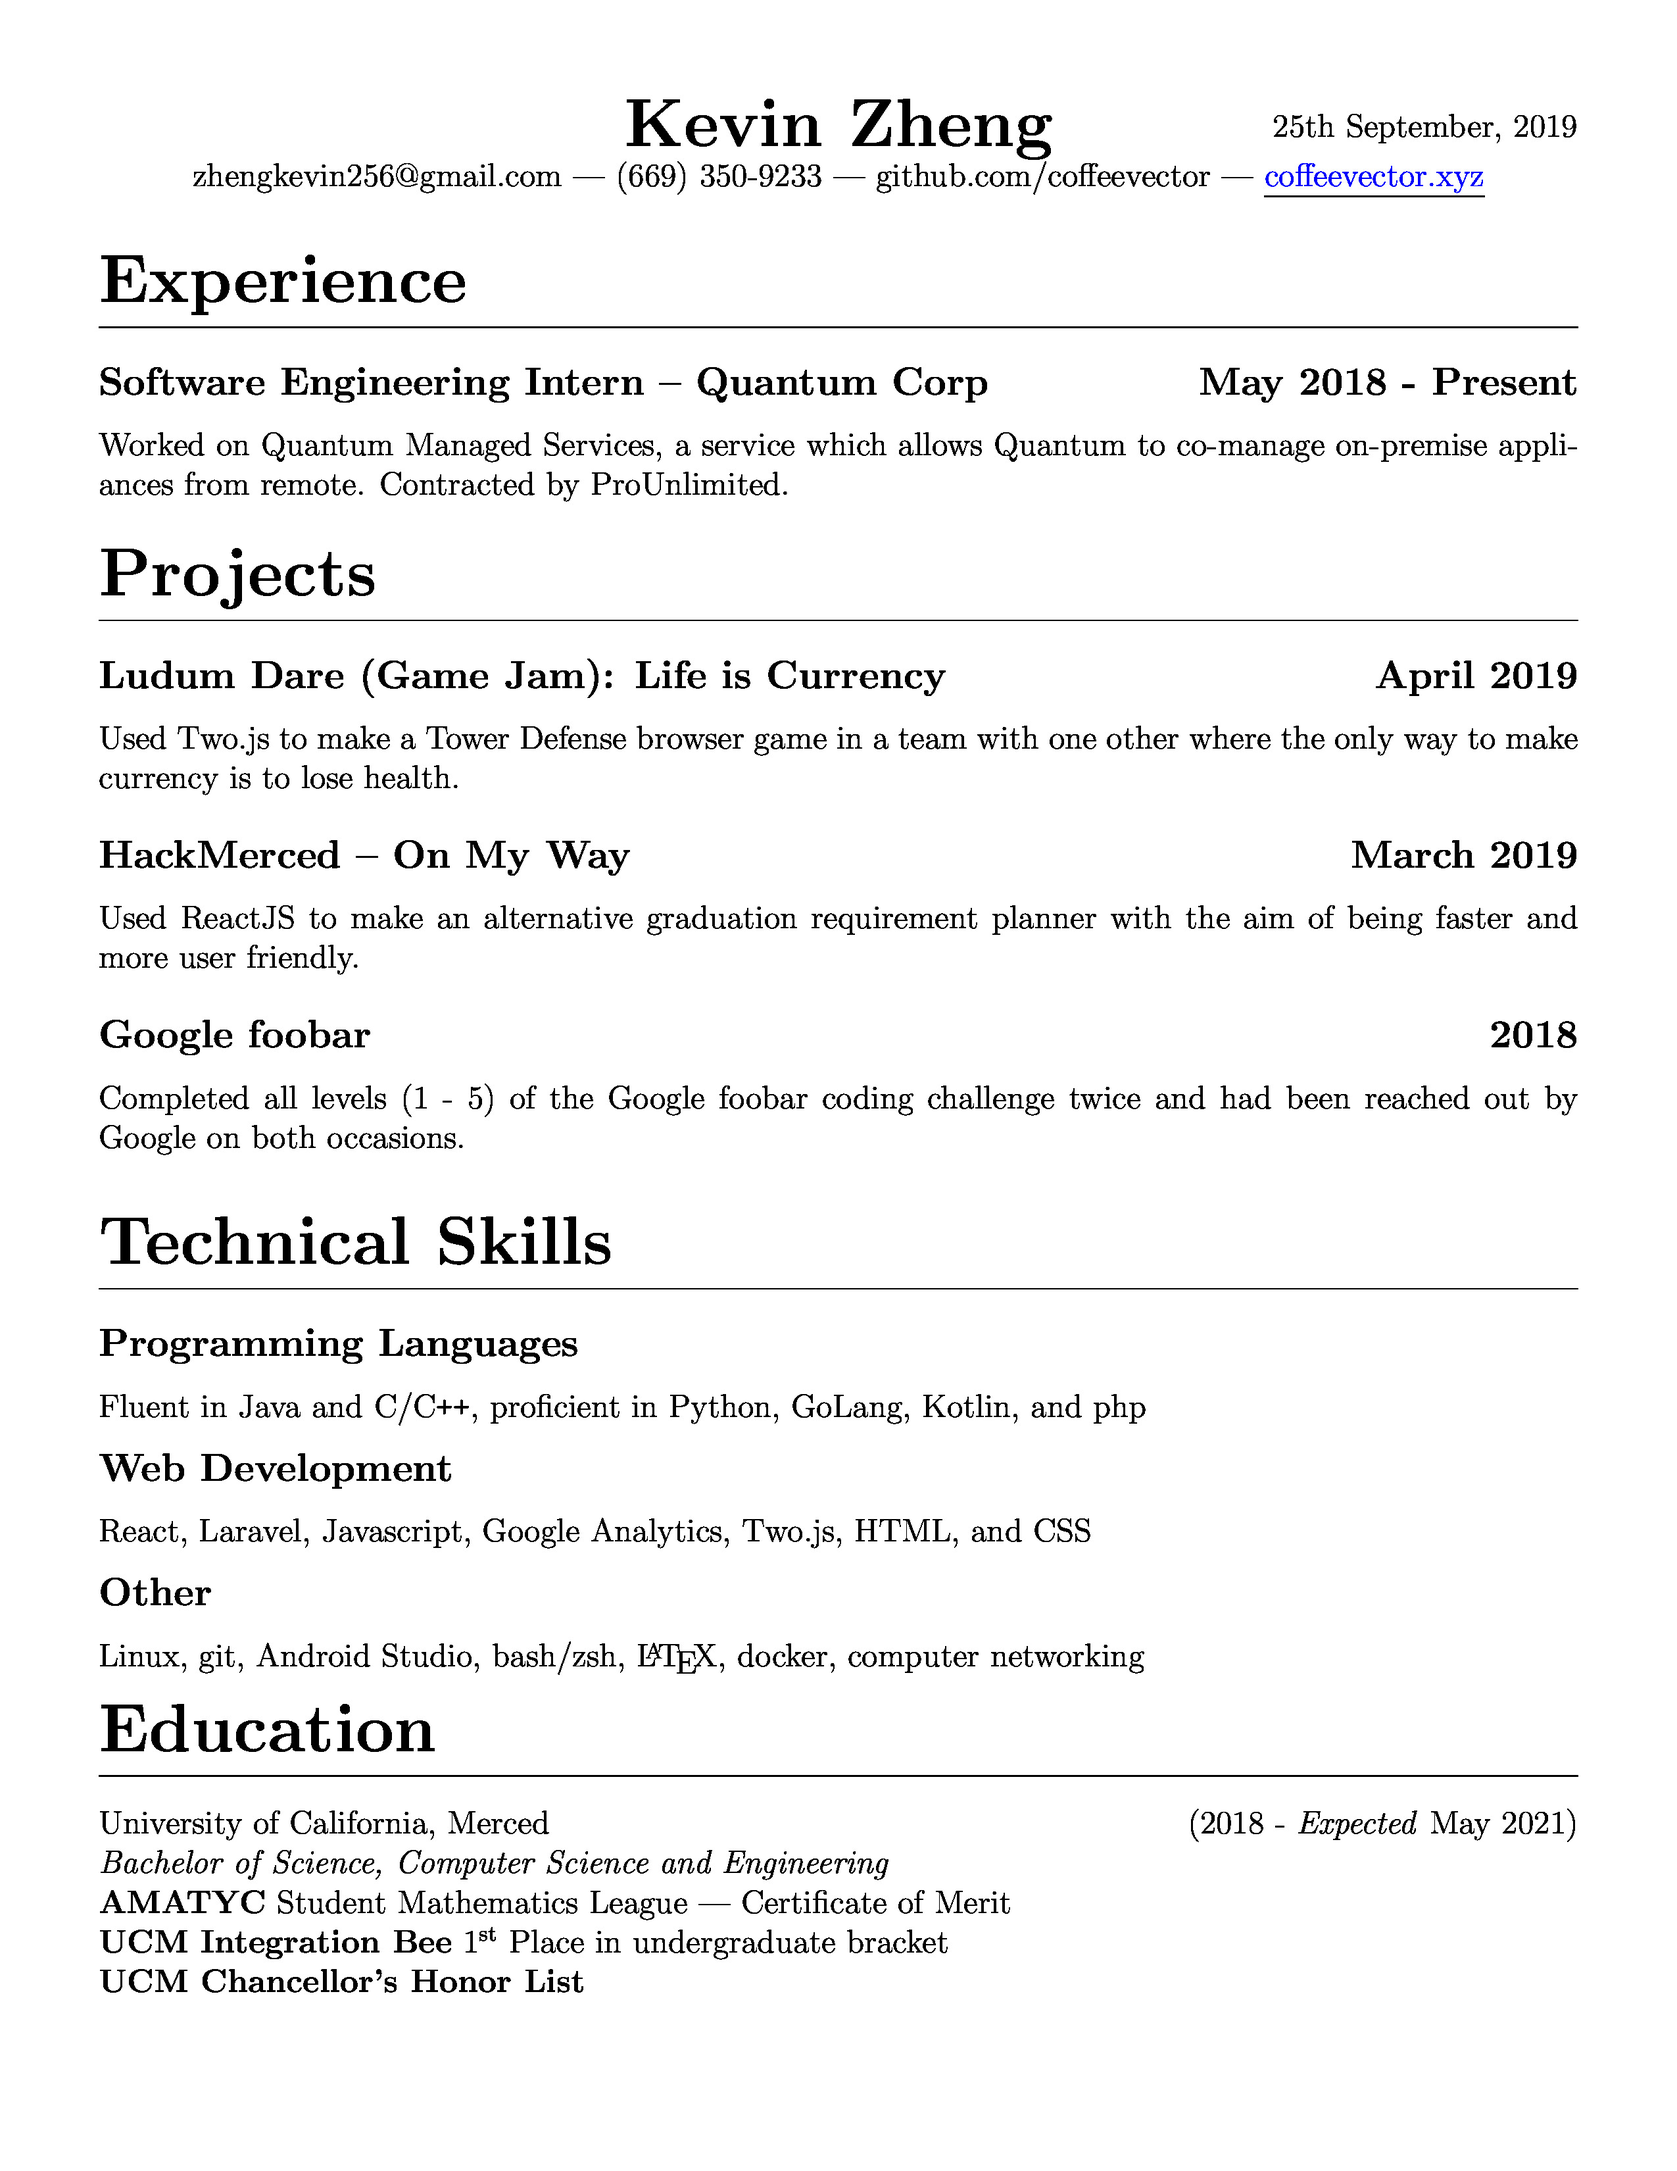
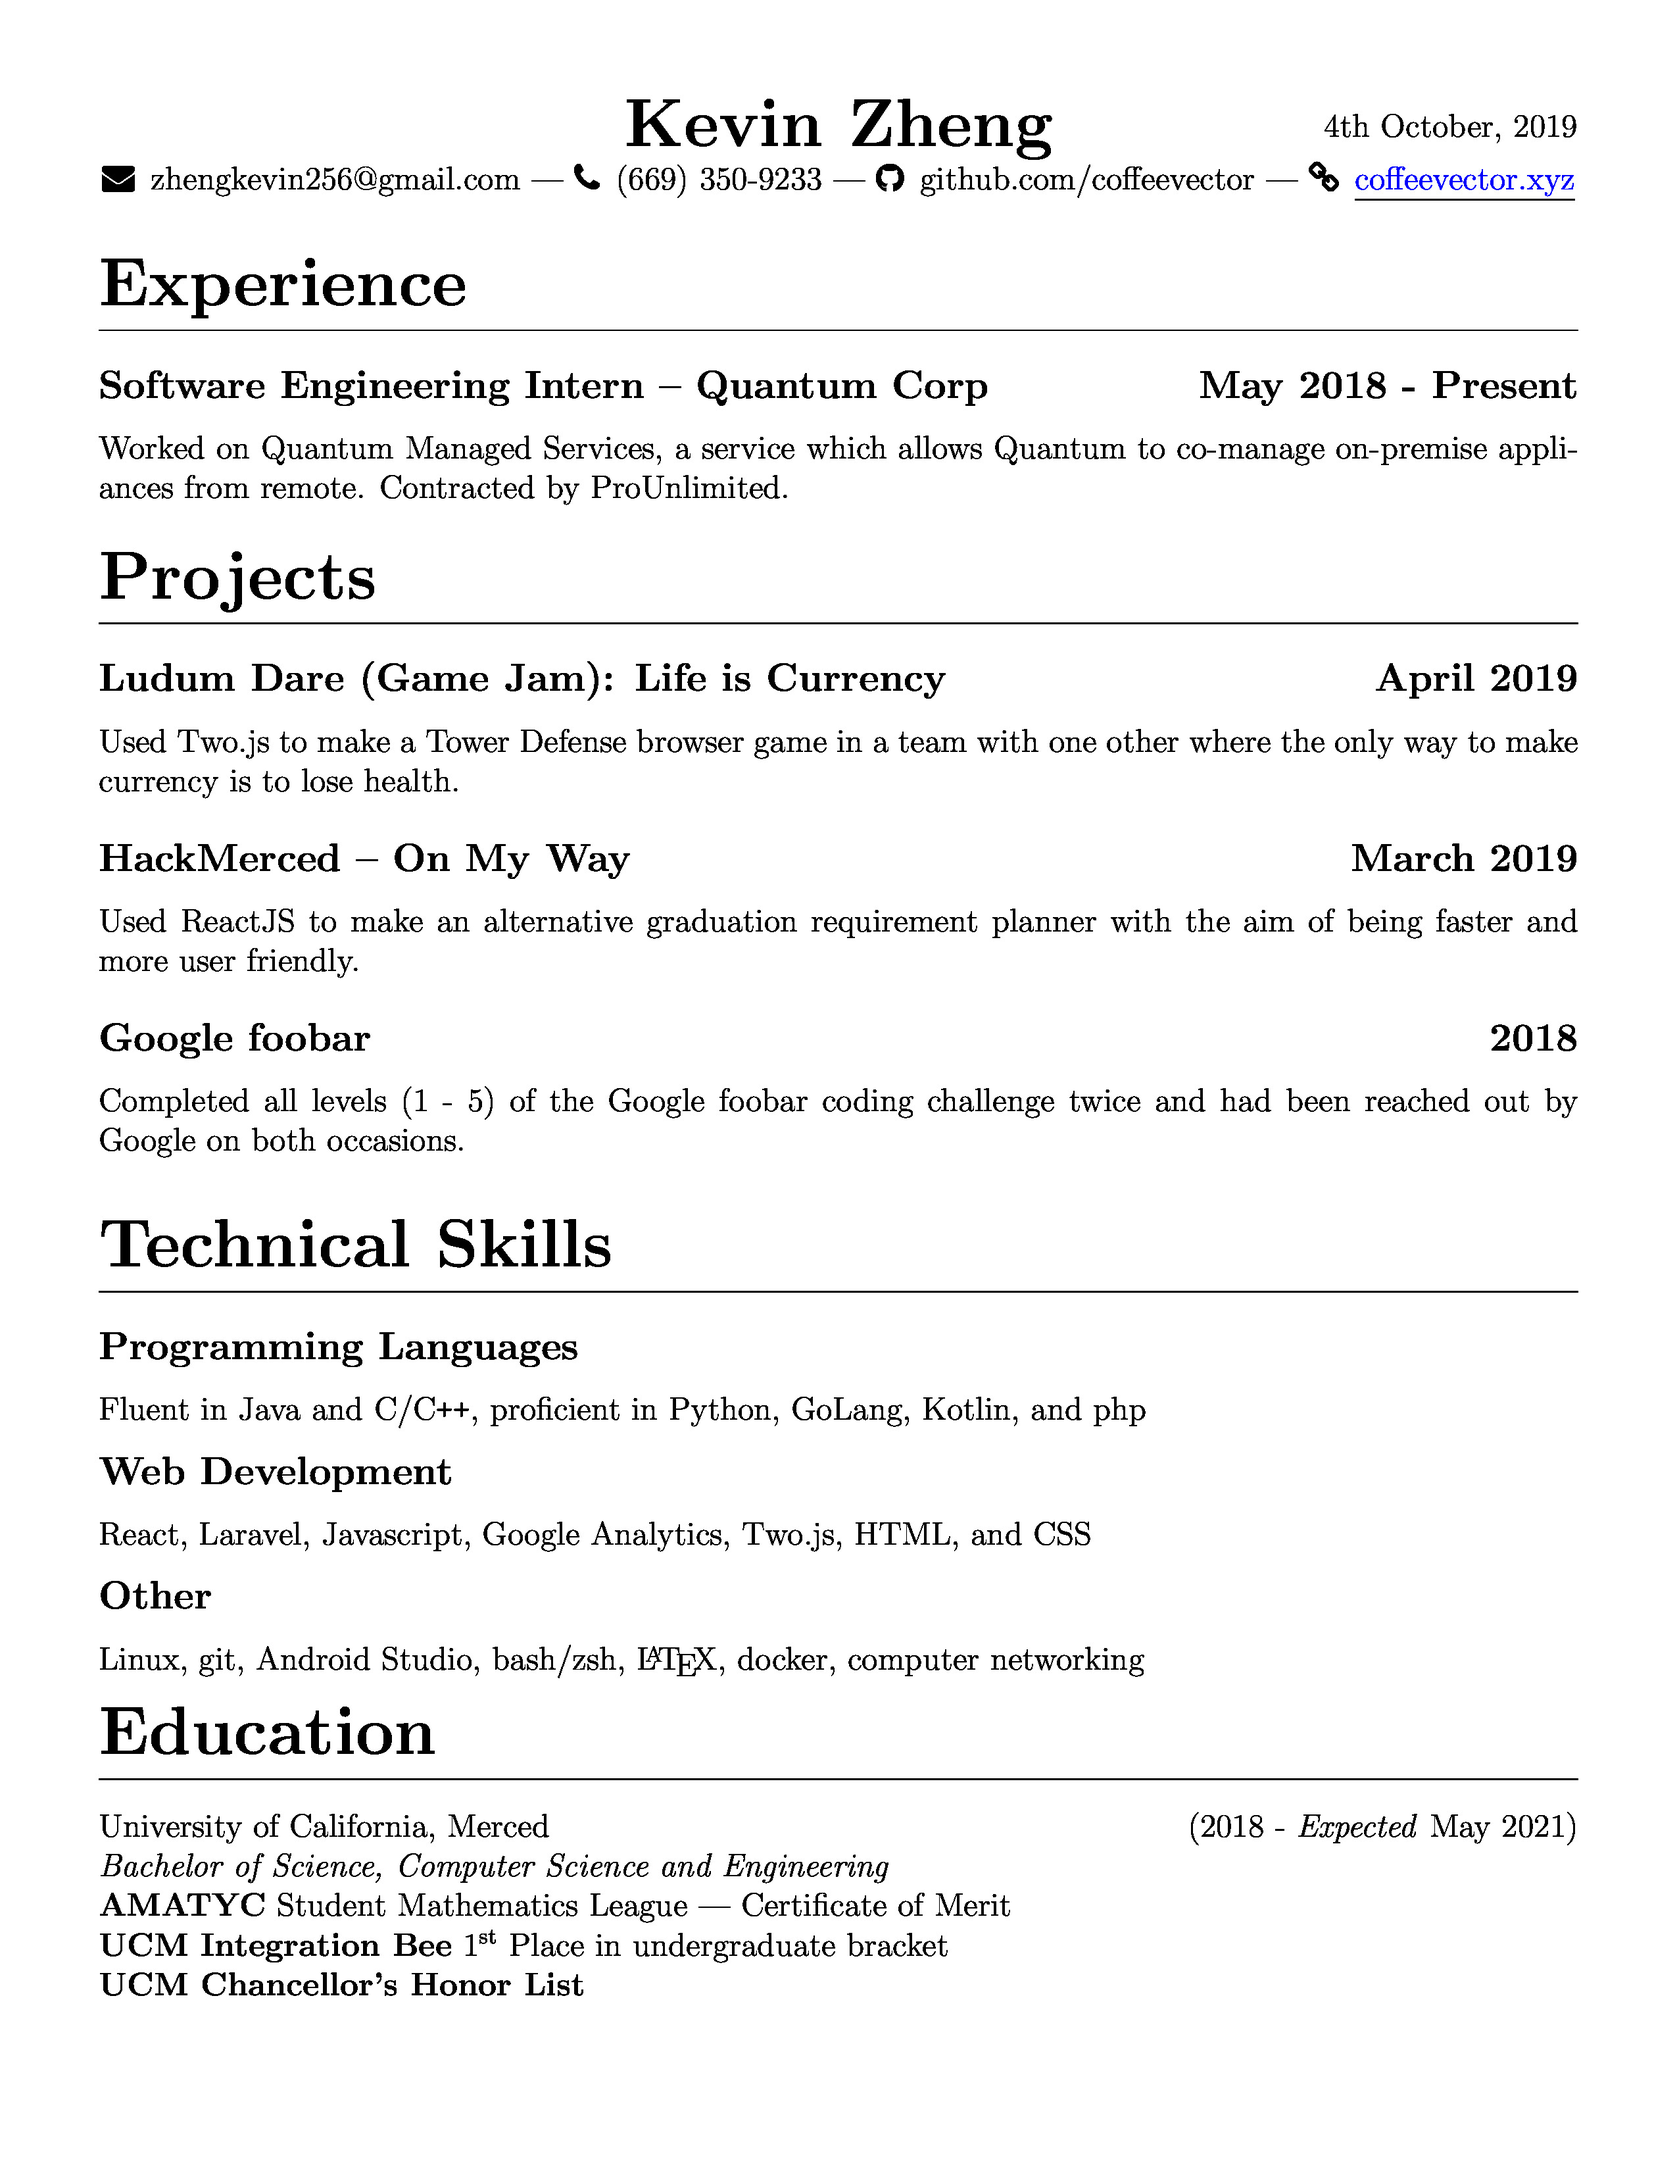
Added fonts in my contact details
Email, phone, github, website

diff --git a/Resume.tex b/Resume.tex
@@ -8,6 +8,7 @@
 \usepackage{enumitem}
 \usepackage[nodayofweek, level]{datetime}
 \usepackage{subfiles}
+\usepackage{fontawesome}
 \titleformat{\section}{\vspace{-2mm}\huge\bfseries}{}{0em}{}[\titlerule]
 \titleformat{\subsection}{\large\bfseries}{}{0em}{}
 \titleformat{\subsubsection}[runin]{}{}{0em}{}[ --- ]
@@ -17,7 +18,7 @@
 \renewcommand{\maketitle}{
     \begin{center}
         \noindent\textbox{\hfill}\textbox{\hfil\bfseries\huge Kevin Zheng\hfil}\textbox{\hfill \today}
-        {zhengkevin256@gmail.com --- (669) 350-9233 --- github.com/coffeevector --- \underline{\color{blue}coffeevector.xyz}}
+        {\faEnvelope \enskip zhengkevin256@gmail.com --- \faPhone \enskip (669) 350-9233 --- \faGithub \enskip github.com/coffeevector --- \faChain \enskip \underline{\color{blue}coffeevector.xyz}}
     \end{center} }
 \pagenumbering{gobble}
 \begin{document}
